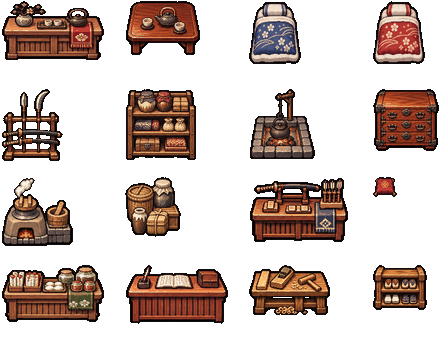
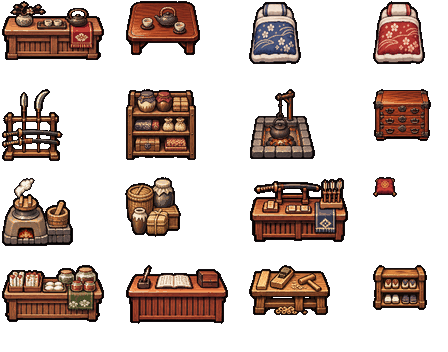
Use wall-relative interior placement and reduce oversized chest art

Changed region(s): [[0.8125, 0.25, 1.0, 0.4375]]

diff --git a/src/game/interiors/index.html b/src/game/interiors/index.html
@@ -89,6 +89,6 @@ button:active,button.held,button[aria-pressed=true]{background:#e8cc8b;color:#27
 </section>
 <button id="sound-toggle" type="button" aria-label="サウンドを再生" aria-pressed="false">♪ 再生</button>
 </main>
-<script type="module" src="./walk.mjs?v=fb40c1b-equipment-4slots-2-find-hint-1-save-slots-1-nearby-1-interior-furniture-2px-1"></script>
+<script type="module" src="./walk.mjs?v=fb40c1b-equipment-4slots-2-find-hint-1-save-slots-1-nearby-1-interior-furniture-2px-1-wall-anchor-1"></script>
 </body>
 </html>

diff --git a/docs/INTERIOR_FURNITURE.md b/docs/INTERIOR_FURNITURE.md
@@ -1,4 +1,4 @@
-# 鬼灯村・室内家具の制作契約（改修候補）
+# 鬼灯村・室内家具の制作契約（現行仕様）
 
 対象：第1作『鬼哭の花結び』・`HiHoSir/kikokuno-hanamusubi`。旧 `yaksha-hanamusubi` で検証した「原画の外形 → 実ドット絵化 → アトラス → 足元検査」の工程を**技法としてのみ**参考にし、旧レポジトリの採用画像はコピーしない。
 
@@ -40,3 +40,15 @@
 - 仕事場付き民家：作業台・材料・商品棚を西側にまとめ、東側の寝具・箪笥と区切る。
 
 家具の描画倍率・足元の当たり判定・住人・隠しアイテムIDは変更しない。各室の画像矩形の非重複、床端と出入口、8px歩行判定付き到達性、店番への会話可能位置および箪笥の調査可能位置を `tests/interior-furniture-layout.test.mjs` で検証する。イメージは実ゲーム表示の確認の代わりにしない。iPhone Safari実機は別途検査する。
+
+## 壁に接する家具の座標系とサイズ再検討
+
+以前の「家具同士が重ならなければ合格」という配置基準は不十分だった。奥壁の床との境界が Y=128 にあるのに、壁際の棚や箪笥は独立Y値で配置され、空中に浮いて見える原因になっていた。
+
+- `src/game/interiors/room-geometry.mjs` が奥壁床境界128、家具の接地開始144、左右壁内側44、玄関側の下端位置を定義。
+- 部屋の `furniture` 配置は Y に `back-wall`、X に `left-wall` / `right-wall`、Y に `front-wall` を指定可能。描画と衝突で使う座標は `resolveFurniturePlacement` で一元算出。
+- 棚・箪笥・武器棚・棚際の荷物・壁付けかまどは、実際の `foot` と壁の接地線で位置を決定。帳場・机・布団・囲炉裏は独立して配置。
+- 箪笥は80×112pxの緋月キャラ枠との比較で過大だったため、原本の2px論理格子で輪郭・細部を保って120×108pxに修正。描画時に個別の倍率は適用しない。
+- 7室の家具矩形の非重複、8pxの通行半径を考慮した到達性、住人会話・隠しアイテムの接近、壁アンカーの不変条件を回帰テストに追加。
+
+本編のブラウザ実表示とiPhone Safariの実機検査は、自動テストおよび簡易プレビューと別途実施する。
